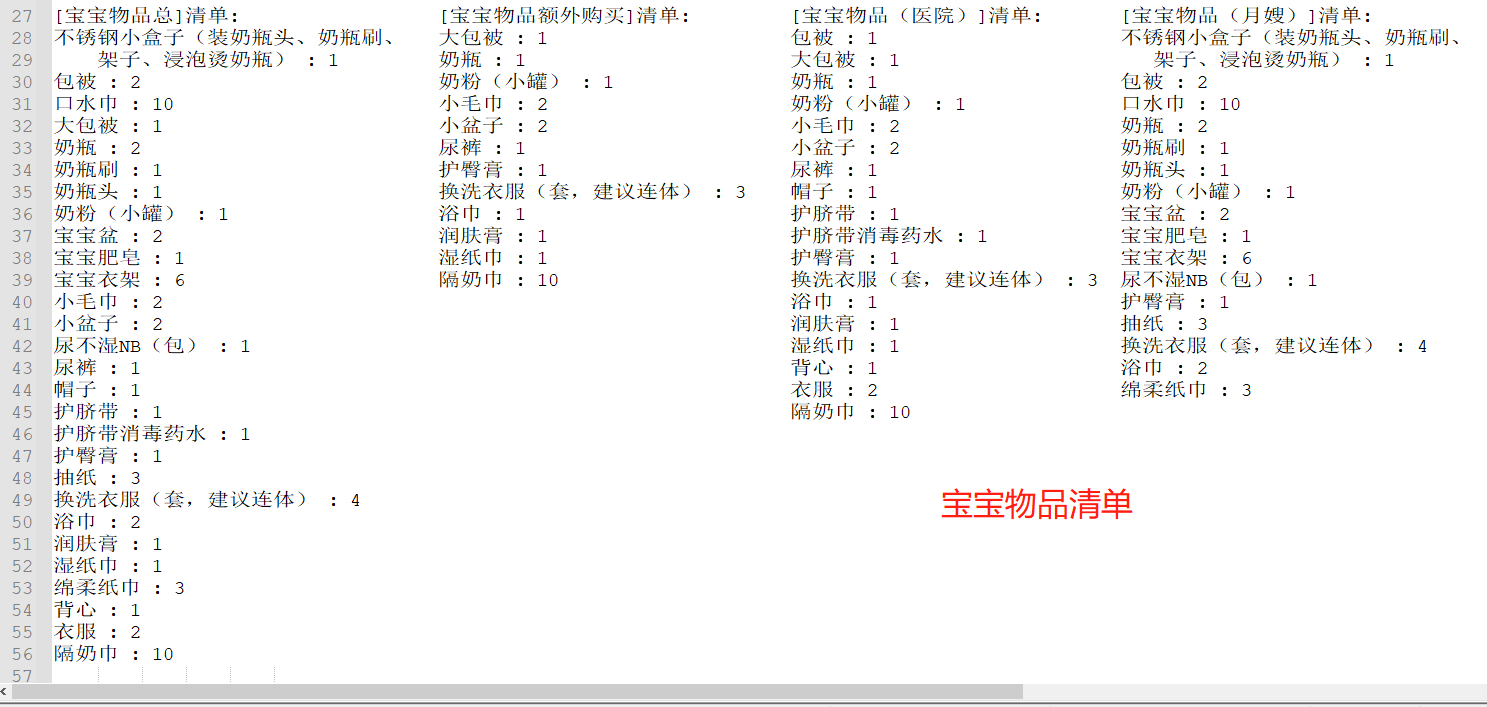
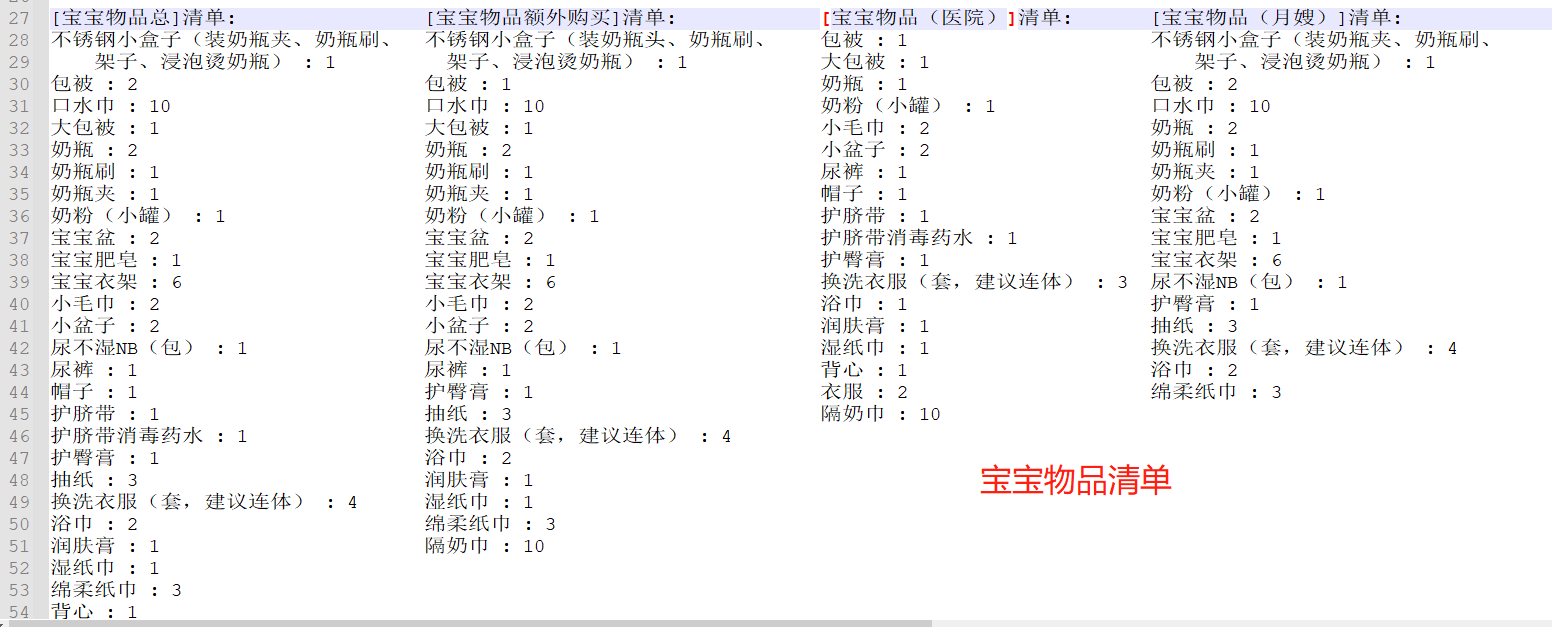
AddBuyList替换久接口AddAll

diff --git a/main.cpp b/main.cpp
@@ -140,7 +140,7 @@ void InitializeMama(MamaBaobao& hospital, MamaBaobao& yuesao) {
             make_pair("一次性马桶垫（包）", 2),
             make_pair("一次性内裤（条）", 20),
             make_pair("卫生纸（卷）", 2),
-            make_pair("也用卫生巾（包）", 3),
+            make_pair("夜用卫生巾（包）", 3),
             make_pair("肥皂", 1),
             make_pair("防滑拖鞋（软底）", 1),
     };
@@ -184,7 +184,7 @@ void InitializeBaobao(MamaBaobao& hospital, MamaBaobao& yuesao) {
             make_pair("浴巾", 2),
             make_pair("奶瓶", 2),
             make_pair("奶瓶刷", 1),
-            make_pair("奶瓶头", 1),
+            make_pair("奶瓶夹", 1),
             make_pair("不锈钢小盒子（装奶瓶头、奶瓶刷、架子、浸泡烫奶瓶）", 1),
             make_pair("奶粉（小罐）", 1),
             make_pair("尿不湿NB（包）", 1),
@@ -192,7 +192,7 @@ void InitializeBaobao(MamaBaobao& hospital, MamaBaobao& yuesao) {
     };
     hospital.AddGiftList(listHospitalGift);
     hospital.AddBuyList(listHospitalBuy);
-    yuesao.AddAll(listYuesao);
+    yuesao.AddBuyList(listYuesao);
 }
 
 int main()
